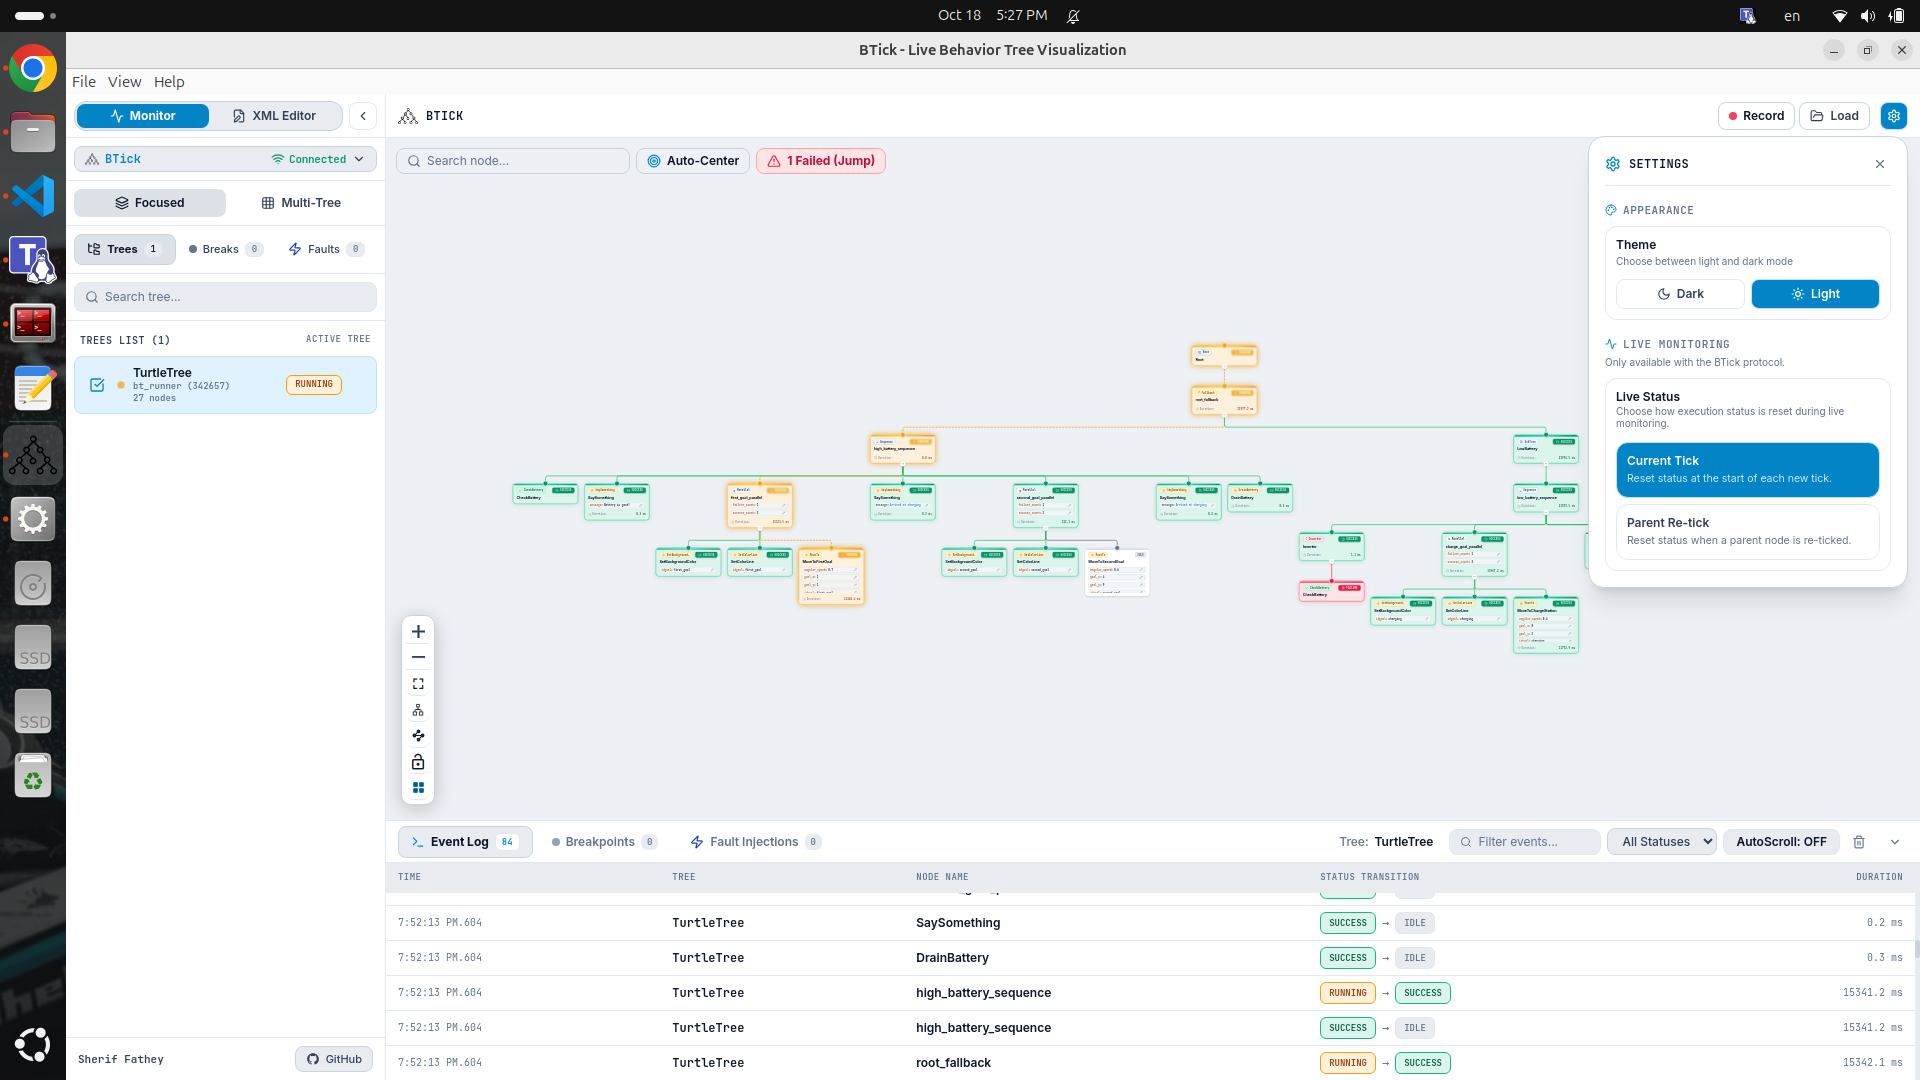
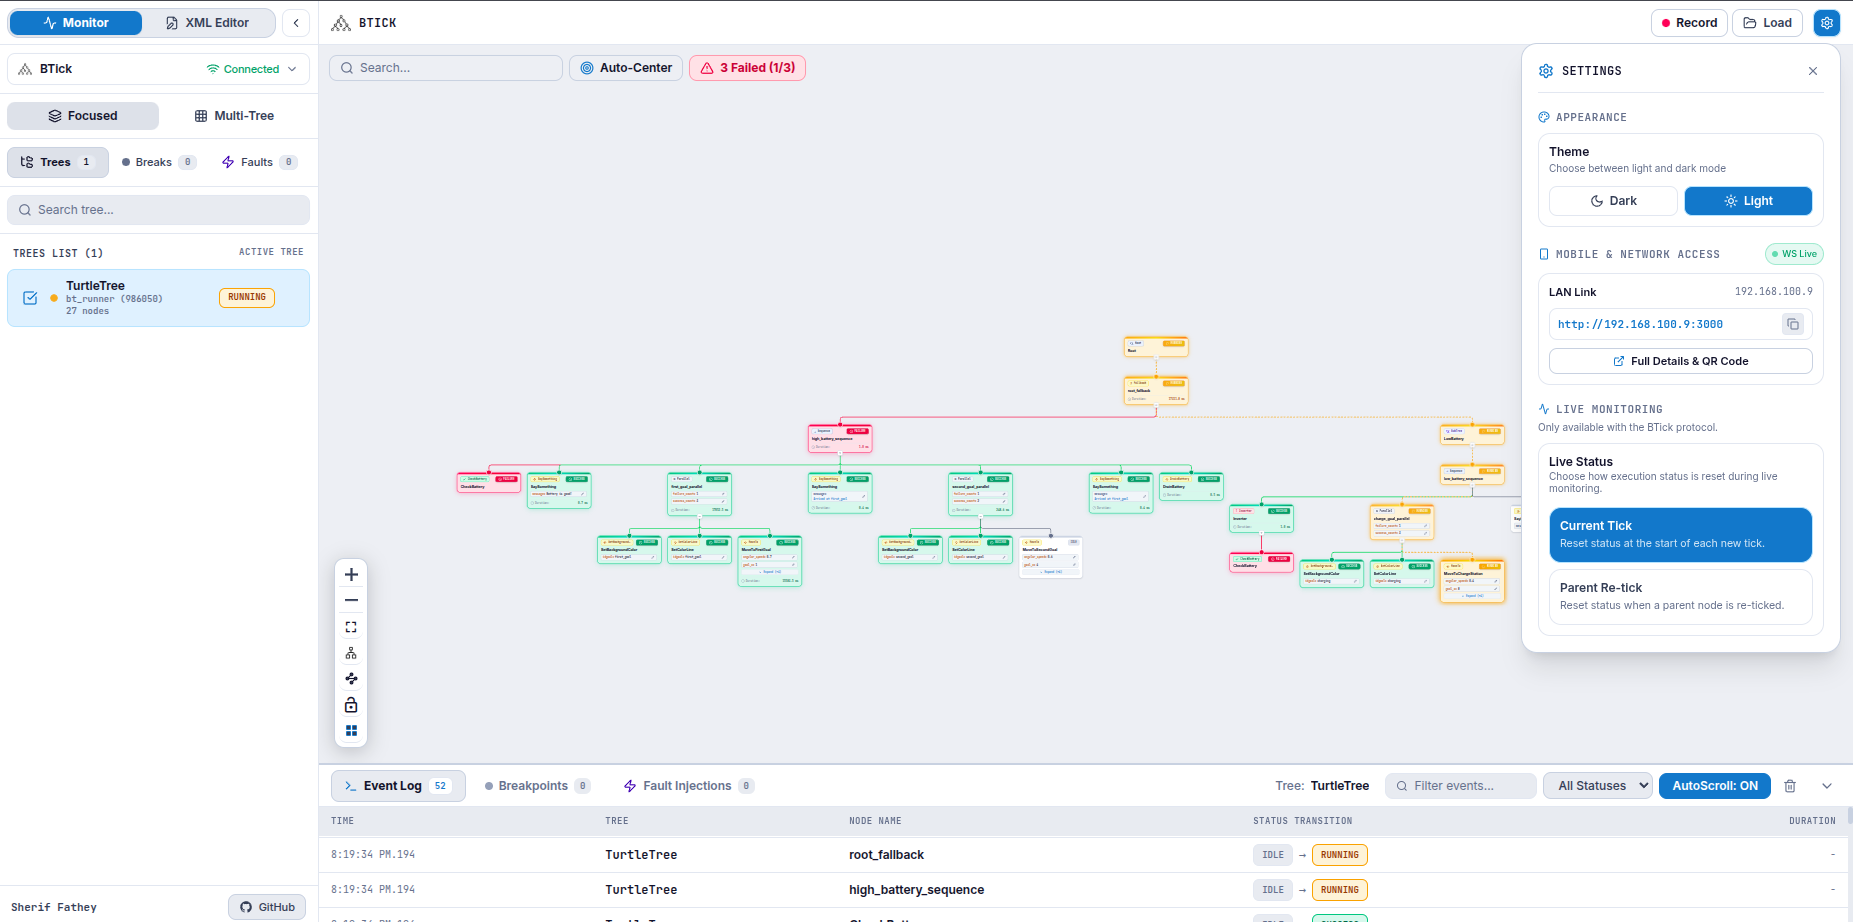
docs: remove outdated screenshots and add mobile access instructions with QR code pairing

diff --git a/source/monitor.rst b/source/monitor.rst
@@ -29,6 +29,7 @@ The Monitor workspace consists of the following primary interface areas:
   * Connection and protocol selector (**BTick**, **Groot2**, **Nav2**).
   * View mode toggle (**Focused** (single-tree view) vs. **Multi-Tree**).
   * Navigation tabs (**Trees**, **Breakpoints**, **Fault Injections**).
+
 .. grid:: 2
    :gutter: 3
 
@@ -52,11 +53,13 @@ The Monitor workspace consists of the following primary interface areas:
   * **Bottom-Left Display Area Controls**: Includes zoom, fit view, layout orientation, path style, display lock, and reset layout controls.
 
 * **Breakpoint Banner**: When execution pauses at a breakpoint, a top banner displays the paused node name and action buttons: **Continue**, **Success**, **Failure**, and **Remove Breakpoint**.
+
 .. figure:: _static/images/breakpoint_banner.png
    :align: center
+
 * **Node Details Panel (Right Drawer)**: Opens with the title **Node Information** when selecting a node in the display area. Shows node status, type, category, tick count, duration, runtime modifications, port bindings, and protocol-specific debugging panels.
 
-* **Settings Drawer**: Opened by clicking the gear icon (⚙) in the top-right header bar. Provides controls for configuring application theme (**Appearance**) and execution status reset modes (**Live Status**) under the BTick protocol.
+* **Settings Drawer**: Opened by clicking the gear icon (⚙) in the top-right header bar. Provides controls for configuring application theme (**Appearance**), execution status reset modes (**Live Status**) under the BTick protocol, and **Mobile & Network Access** (displaying the local network URL and offline QR code for smartphone/tablet pairing).
 
 * **Bottom Panel Drawer**: An expandable bottom drawer with tabs for **Event Log**, **Breakpoints**, and **Fault Injections**.
 
@@ -172,7 +175,6 @@ When monitoring behavior tree execution under the **BTick** protocol, you can co
       **Node Information** panel on the right.
 
       **Inspecting Node Metadata and Telemetry**
-      ------------------------------------------
 
       The panel displays:
 
@@ -187,7 +189,6 @@ When monitoring behavior tree execution under the **BTick** protocol, you can co
         (e.g., ``goal: {target_pose}``); literal values appear with amber badges.
 
       **Live Node Port Editing**
-      --------------------------
 
       Under the **BTick** integration, ports can be modified dynamically:
 
@@ -351,4 +352,49 @@ Available capabilities depend on the active integration:
 * **Groot2** provides live tree visualization, breakpoint debugging, forced status overrides (Success/Failure), and read-only blackboard inspection .
 * **Nav2** provides non-intrusive, passive telemetry by subscribing directly to Nav2 topics, tracking execution states and failures without remote debugging controls.
 
-For a detailed feature-by-feature matrix, see :doc:`protocol_comparison`.
+10. Mobile & Tablet Network Collaboration
+=========================================
+
+BTick includes full native support for mobile phones and tablets, allowing field engineers to monitor, debug, and inspect robot Behavior Trees directly while standing next to the physical robot.
+
+Connecting via QR Code
+----------------------
+
+To connect a phone or tablet:
+
+1. On the desktop or primary workstation, click the **Settings** gear icon (⚙) in the header bar.
+2. Click **Mobile & Network Access**.
+3. A modal opens displaying:
+
+   * The local network address (e.g., ``http://192.168.1.X:3000``).
+   * An automatically generated **QR Code**.
+
+4. Scan the QR code using your mobile device's camera app. The BTick interface will launch in your mobile browser without having to type any IP addresses.
+
+.. figure:: _static/images/mobile.png
+   :alt: BTick mobile interface
+   :align: center
+
+
+.. note::
+   The mobile device and host machine must be connected to the same Wi-Fi router, local Ethernet network, or personal mobile hotspot.
+
+Touch & Responsive Mobile Interface
+-----------------------------------
+
+The visualizer automatically detects mobile viewports and adapts its layout:
+
+* **Bottom Sheet Drawer**: Selecting any node on mobile opens a touch-friendly bottom drawer showing node information and debugging actions. The drawer can be collapsed to a 35% peek view or expanded to 75% screen height.
+* **Compact Responsive Header & Sidebar**: The sidebar seamlessly slides over the canvas and can be toggled open or closed with a single tap.
+* **Canvas Touch Gestures**: Smooth multi-touch pinch-to-zoom and one-finger drag panning.
+* **Port Editing Auto-Center**: Tapping the pencil icon (✏) next to any node input port automatically glides and centers the node and input field directly in the middle of the mobile screen.
+
+Two-Way Real-Time Synchronization
+---------------------------------
+
+BTick features complete two-way state synchronization between Desktop and Mobile clients:
+
+* **Breakpoints**: Setting or removing a breakpoint on Mobile immediately reflects on the Desktop screen, and vice versa.
+* **Fault Overrides**: Forcing node status (``SUCCESS``, ``FAILURE``) or injecting delays from your phone instantly synchronizes across all connected devices.
+* **Interactive Stepping & Execution**: Resuming or stepping through execution from any device updates all clients simultaneously without feedback loops.
+* **Persistent Connection State**: If the desktop session already has active breakpoints and faults, newly connected mobile devices immediately receive the synchronized tree state upon opening.

diff --git a/source/architecture.rst b/source/architecture.rst
@@ -35,21 +35,23 @@ The bridge layer acts as a multiplexer and normalization engine, abstracting the
                                                   |
                           +------------------------+------------------------+
                           |                                                 |
-                Web Application Path                              Desktop Application Path
+                Web & Mobile Path                                 Desktop Application Path
                           |                                                 |
                 +----------------------+                         +----------------------+
                 | WebSocket Server     |                         | Electron Desktop     |
                 | Port 8080            |                         | Application          |
                 |                      |                         |                      |
-                | HTTP Server          |                         | React + ReactFlow    |
+                | HTTP SPA Server      |                         | React + ReactFlow    |
                 | Port 3000            |                         |                      |
                 +----------------------+                         +----------------------+
-                          |                                                 |
-                +----------------------+                         +----------------------+
-                | Browser              |                         | Native Linux .deb    |
-                | React + ReactFlow    |                         |                      |
-                | localhost:3000       |                         |                      |
-                +----------------------+                         +----------------------+
+                     |            |                                         |
+          Desktop Browser    Mobile / Tablet                                |
+          React + ReactFlow  Touch UI & QR Code                             |
+          localhost:3000     <lan-ip>:3000                                  |
+                     |            |                                         |
+                     +------------+-----------------------------------------+
+                                  |
+               Two-Way Real-Time State Synchronization (sync_action)
 
 Components
 ==========
@@ -135,6 +137,15 @@ The bridge normalizes protocol data into JSON events and broadcasts them to fron
 * **blackboard_update**: Publishes Blackboard snapshots (Groot2).
 * **blackboard_update_response**: Reports the result of a Blackboard write command (BTick).
 * **set_node_port_response**: Reports the result of a node-port edit command (BTick).
+* **sync_action**: Broadcasts interactive debugging mutations (breakpoints, faults, port edits, stepping) across all connected Desktop, Mobile, and Web clients in real time.
+
+Multi-Client State Synchronization
+==================================
+
+BTick features a centralized in-memory synchronization layer within the bridge server that allows multiple devices to collaborate simultaneously:
+
+* **Real-Time Broadcast Loop Prevention**: When an operator sets a breakpoint or injects a fault on one device (e.g., a field tablet), the bridge applies the mutation to its in-memory tree model and broadcasts a standardized ``sync_action`` message to all other connected WebSocket clients. Clients update their local state reactively without re-emitting outbound commands.
+* **Persistent In-Memory Tree State**: Active breakpoints and fault rules are retained in the bridge's tree models. When a new device connects (such as opening the visualizer on a smartphone via QR code), the initial tree payload contains all existing breakpoints and fault overrides immediately.
 
 Event payloads and available debugging features vary by protocol. Nav2 is read-only; it does not provide standalone Blackboard updates or live node-port editing.
 

diff --git a/source/getting_started.rst b/source/getting_started.rst
@@ -191,3 +191,58 @@ First Launch
 
 Connect BTick to a supported behavior tree source to start monitoring its execution.
 
+Option C: Mobile & Local Network Access
+=======================================
+
+BTick allows developers and field operators to monitor and debug Behavior Trees directly from mobile phones, tablets, or remote laptops on the same Wi-Fi / Local Area Network without installing any extra software.
+
+1. Instant Pairing via QR Code
+------------------------------
+
+When running the BTick web application or desktop client:
+
+1. Click the **Settings** gear icon (⚙) in the top-right header.
+2. Select **Mobile & Network Access**.
+3. Scan the generated QR code using any smartphone or tablet camera.
+4. The BTick Progressive Web Interface opens instantly on your mobile device.
+
+.. figure:: _static/images/mobile.png
+   :alt: BTick mobile interface
+   :align: center
+
+
+.. note::
+   Your phone/tablet must be connected to the same Wi-Fi network or mobile hotspot as the host machine running the BTick bridge.
+
+2. Network Bridge CLI Options
+-----------------------------
+
+When launching the bridge server manually or via Python scripts, you can customize the ports and network binding:
+
+.. list-table::
+   :header-rows: 1
+   :widths: 25 20 55
+
+   * - Option
+     - Default
+     - Description
+   * - ``--http-port <PORT>``
+     - ``3000``
+     - Port serving the web visualizer application.
+   * - ``--ws-port <PORT>``
+     - ``8080``
+     - WebSocket communication port used by web and mobile clients.
+   * - ``--host <IP>`` / ``--lan-ip <IP>``
+     - *Auto-detected*
+     - Custom LAN IP address or hostname to advertise (useful for multi-NIC, VPN, or hotspot setups).
+   * - ``--open-browser``
+     - ``False``
+     - Automatically opens the default browser on ``http://localhost:<HTTP_PORT>``.
+
+Example command:
+
+.. code-block:: bash
+
+   python3 bridge/bt_bridge.py --http-port 8080 --host 192.168.1.50
+
+

diff --git a/source/index.rst b/source/index.rst
@@ -46,6 +46,8 @@ Key Features
 - **Scalable Visualization & Navigation**: Navigate complex Behavior Trees with interactive panning and zooming.
 - **Multi-Protocol Monitoring & Telemetry**: Support BTick, Groot2 Pro Features compatibility, and Nav2 logging.
 - **Web & Desktop Applications**: Use BTick through web and desktop interfaces.
+- **Mobile & Tablet Access with Instant QR Code**: Connect smartphones and tablets over the local Wi-Fi with automatic QR code pairing and touch-optimized responsive layout.
+- **Real-Time Multi-Device State Synchronization**: Seamlessly debug simultaneously across desktop, tablet, and mobile devices—breakpoints, fault overrides, execution steps, and port edits sync instantly with zero delay.
 
 Getting Started
 ===============
